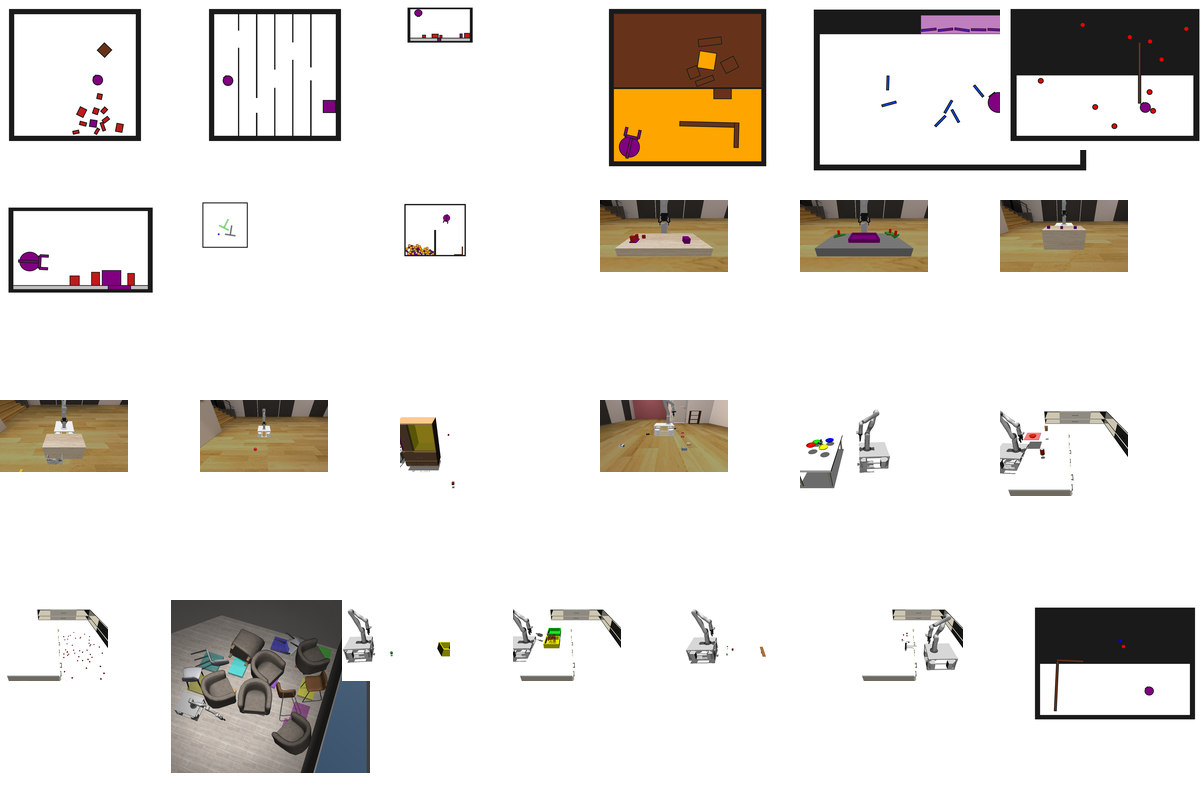
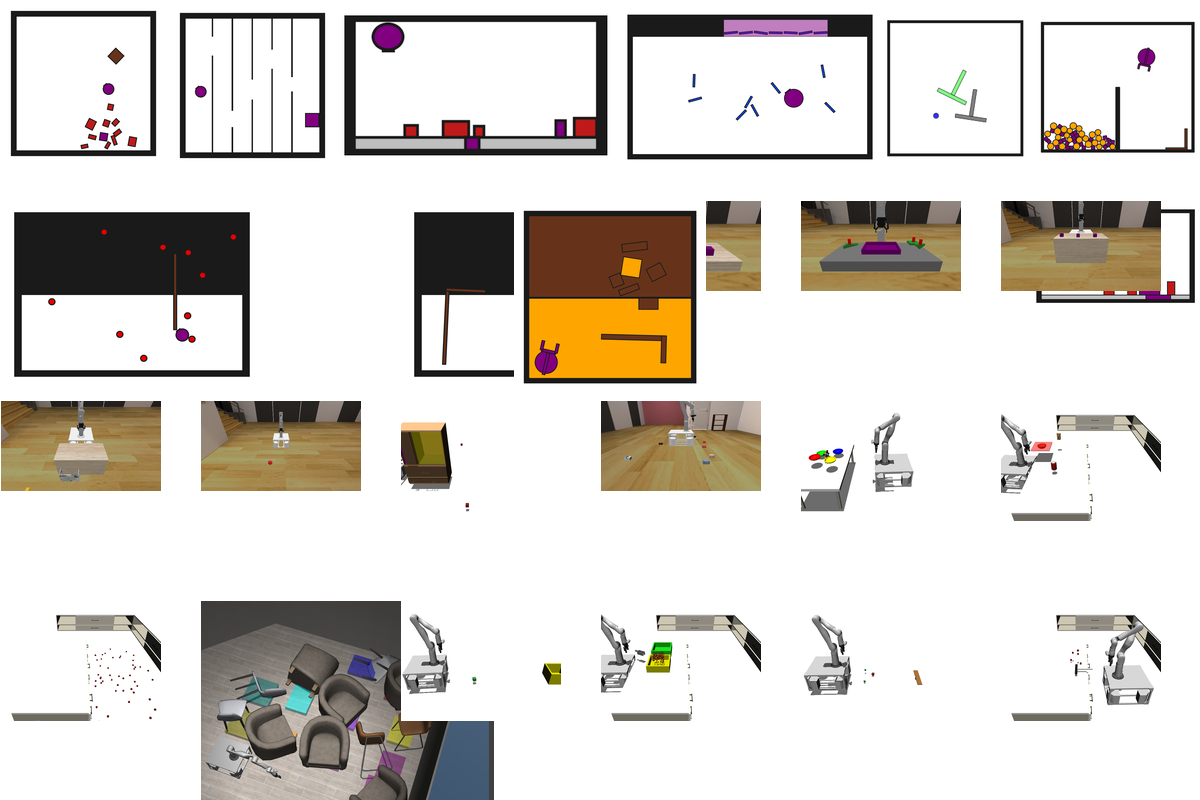
first row

diff --git a/prbench/scripts/generate_env_images.py b/prbench/scripts/generate_env_images.py
@@ -30,7 +30,7 @@ class EnvImageConfig:
 
     env_id: str
     seed: int = 0
-    # Crop values: (left, top, right, bottom) or None for no cropping
+    # Crop values: (left_px, top_px, right_px, bottom_px) pixels to crop from each edge, or None for no cropping
     crop: tuple[int, int, int, int] | None = None
     # Position in combined image: (x, y) from top-left
     position: tuple[int, int] = (0, 0)
@@ -45,187 +45,188 @@ COMBINED_IMAGE_SIZE: tuple[int, int] = (1200, 800)  # (width, height)
 COMBINED_IMAGE_BACKGROUND: tuple[int, int, int] = (255, 255, 255)  # RGB
 
 # List of environments to generate images for.
-# 4-row layout: 6-6-6-7 = 25 environments on 1200×800 canvas
-# Row height: 200 pixels
+# 4-row layout: 7-6-6-6 = 25 environments on 1200×800 canvas
+# Organized: 2D environments top, 3D environments bottom for visual coherence
+# Optimized for camera-ready figure with balanced spacing
 ENV_CONFIGS = [
-    # Row 1: 6 environments (y=0, 200px width each)
+    # Row 1: 7 2D environments (y=1, ~169px width, scale 0.22)
     EnvImageConfig(
         env_id="prbench/ClutteredRetrieval2D-o10-v0",
         seed=42,
         crop=None,
-        position=(0, 0),
-        scale=0.2,
+        position=(1, 1),
+        scale=0.22,
     ),
     EnvImageConfig(
         env_id="prbench/Motion2D-p5-v0",
         seed=42,
         crop=None,
-        position=(200, 0),
-        scale=0.2,
+        position=(170, 3),
+        scale=0.22,
     ),
     EnvImageConfig(
         env_id="prbench/Obstruction2D-o4-v0",
         seed=42,
-        crop=None,
-        position=(400, 0),
-        scale=0.2,
-    ),
-    EnvImageConfig(
-        env_id="prbench/DynPushPullHook2D-o5-v0",
-        seed=42,
-        crop=None,
-        position=(600, 0),
-        scale=0.2,
+        crop=(20,0,20,0),
+        position=(330, -15),
+        scale=0.8,
     ),
     EnvImageConfig(
         env_id="prbench/ClutteredStorage2D-b15-v0",
         seed=42,
         crop=None,
-        position=(800, 0),
-        scale=0.2,
-    ),
-    EnvImageConfig(
-        env_id="prbench/StickButton2D-b10-v0",
-        seed=42,
-        crop=None,
-        position=(1000, 0),
-        scale=0.2,
-    ),
-    # Row 2: 6 environments (y=200, 200px width each)
-    EnvImageConfig(
-        env_id="prbench/DynObstruction2D-o3-v0",
-        seed=42,
-        crop=None,
-        position=(0, 200),
-        scale=0.2,
+        position=(615, 6),
+        scale=0.18,
     ),
     EnvImageConfig(
         env_id="prbench/DynPushT-t1-v0",
         seed=42,
         crop=None,
-        position=(200, 200),
-        scale=0.2,
+        position=(880, 13),
+        scale=0.6,
     ),
     EnvImageConfig(
         env_id="prbench/DynScoopPour-o50-v0",
         seed=42,
         crop=None,
-        position=(400, 200),
-        scale=0.2,
+        position=(1030, 12),
+        scale=0.5,
     ),
+    # Row 2: 6 2D/hybrid environments (y=201, 198px width, scale 0.25)
     EnvImageConfig(
-        env_id="prbench/Obstruction3D-o4-v0",
+        env_id="prbench/StickButton2D-b10-v0",
         seed=42,
         crop=None,
-        position=(600, 200),
-        scale=0.2,
+        position=(1, 201),
+        scale=0.25,
     ),
     EnvImageConfig(
-        env_id="prbench/Packing3D-p3-v0",
+        env_id="prbench/DynObstruction2D-o3-v0",
         seed=42,
         crop=None,
-        position=(800, 200),
-        scale=0.2,
-    ),
-    EnvImageConfig(
-        env_id="prbench/Table3D-o3-v0",
-        seed=42,
-        crop=None,
-        position=(1000, 200),
-        scale=0.2,
-    ),
-    # Row 3: 6 environments (y=400, 200px width each)
-    EnvImageConfig(
-        env_id="prbench/Transport3D-o2-v0",
-        seed=42,
-        crop=None,
-        position=(0, 400),
-        scale=0.2,
-    ),
-    EnvImageConfig(
-        env_id="prbench/BaseMotion3D-v0",
-        seed=42,
-        crop=None,
-        position=(200, 400),
-        scale=0.2,
-    ),
-    EnvImageConfig(
-        env_id="prbench/TidyBot3D-cupboard-o8-v0",
-        seed=42,
-        crop=None,
-        position=(400, 400),
-        scale=0.2,
-    ),
-    EnvImageConfig(
-        env_id="prbench/Shelf3D-o10-v0",
-        seed=42,
-        crop=None,
-        position=(600, 400),
-        scale=0.2,
-    ),
-    EnvImageConfig(
-        env_id="prbench/TidyBot3D-sort-lab2-o20-sort_the_cluttered_blocks_into_bowls-v0",
-        seed=42,
-        crop=None,
-        position=(800, 400),
-        scale=0.2,
-    ),
-    EnvImageConfig(
-        env_id="prbench/TidyBot3D-rearrange-lab2_kitchen-o2-put_the_boxed_drink_and_the_can_next_to_the_bowl-v0",
-        seed=42,
-        crop=None,
-        position=(1000, 400),
-        scale=0.2,
-    ),
-    # Row 4: 7 environments (y=600, ~171px width each)
-    EnvImageConfig(
-        env_id="prbench/TidyBot3D-tool_use-lab2_kitchen-o50-sweep_the_blocks_to_the_left_side_of_the_kitchen_island-v0",
-        seed=42,
-        crop=None,
-        position=(0, 600),
-        scale=0.17,
-    ),
-    EnvImageConfig(
-        env_id="prbench/TidyBot3D-namo-o1-v0",
-        seed=42,
-        crop=None,
-        position=(171, 600),
-        scale=0.17,
-    ),
-    EnvImageConfig(
-        env_id="prbench/TidyBot3D-dynamic-lab2-o1-toss_the_blocks_into_the_bin-v0",
-        seed=42,
-        crop=None,
-        position=(342, 600),
-        scale=0.17,
-    ),
-    EnvImageConfig(
-        env_id="prbench/TidyBot3D-tool_use-lab2_kitchen-o5-scoop_the_blocks_from_the_yellow_bin_to_the_green_bin-v0",
-        seed=42,
-        crop=None,
-        position=(513, 600),
-        scale=0.17,
-    ),
-    EnvImageConfig(
-        env_id="prbench/TidyBot3D-dynamic-lab2-o3-balance_beam-v0",
-        seed=42,
-        crop=None,
-        position=(684, 600),
-        scale=0.17,
-    ),
-    EnvImageConfig(
-        env_id="prbench/TidyBot3D-tool_use-lab2_kitchen-o5-sweep_the_blocks_into_the_top_drawer_of_the_kitchen_island-v0",
-        seed=42,
-        crop=None,
-        position=(855, 600),
-        scale=0.17,
+        position=(1027, 201),
+        scale=0.22,
     ),
     EnvImageConfig(
         env_id="prbench/PushPullHook2D-v0",
         seed=42,
         crop=None,
-        position=(1026, 600),
-        scale=0.17,
+        position=(401, 201),
+        scale=0.25,
+    ),
+    EnvImageConfig(
+        env_id="prbench/Obstruction3D-o4-v0",
+        seed=42,
+        crop=None,
+        position=(601, 201),
+        scale=0.25,
+    ),
+    EnvImageConfig(
+        env_id="prbench/Packing3D-p3-v0",
+        seed=42,
+        crop=None,
+        position=(801, 201),
+        scale=0.25,
+    ),
+    EnvImageConfig(
+        env_id="prbench/Table3D-o3-v0",
+        seed=42,
+        crop=None,
+        position=(1001, 201),
+        scale=0.25,
+    ),
+    EnvImageConfig(
+        env_id="prbench/DynPushPullHook2D-o5-v0",
+        seed=42,
+        crop=None,
+        position=(514, 201),
+        scale=0.22,
+    ),
+    # Row 3: 6 3D environments (y=401, 198px width, scale 0.25)
+    EnvImageConfig(
+        env_id="prbench/Transport3D-o2-v0",
+        seed=42,
+        crop=None,
+        position=(1, 401),
+        scale=0.25,
+    ),
+    EnvImageConfig(
+        env_id="prbench/BaseMotion3D-v0",
+        seed=42,
+        crop=None,
+        position=(201, 401),
+        scale=0.25,
+    ),
+    EnvImageConfig(
+        env_id="prbench/TidyBot3D-cupboard-o8-v0",
+        seed=42,
+        crop=None,
+        position=(401, 401),
+        scale=0.25,
+    ),
+    EnvImageConfig(
+        env_id="prbench/Shelf3D-o10-v0",
+        seed=42,
+        crop=None,
+        position=(601, 401),
+        scale=0.25,
+    ),
+    EnvImageConfig(
+        env_id="prbench/TidyBot3D-sort-lab2-o20-sort_the_cluttered_blocks_into_bowls-v0",
+        seed=42,
+        crop=None,
+        position=(801, 401),
+        scale=0.25,
+    ),
+    EnvImageConfig(
+        env_id="prbench/TidyBot3D-rearrange-lab2_kitchen-o2-put_the_boxed_drink_and_the_can_next_to_the_bowl-v0",
+        seed=42,
+        crop=None,
+        position=(1001, 401),
+        scale=0.25,
+    ),
+    # Row 4: 6 3D TidyBot environments (y=601, 198px width, scale 0.25)
+    EnvImageConfig(
+        env_id="prbench/TidyBot3D-tool_use-lab2_kitchen-o50-sweep_the_blocks_to_the_left_side_of_the_kitchen_island-v0",
+        seed=42,
+        crop=None,
+        position=(1, 601),
+        scale=0.25,
+    ),
+    EnvImageConfig(
+        env_id="prbench/TidyBot3D-namo-o1-v0",
+        seed=42,
+        crop=None,
+        position=(201, 601),
+        scale=0.25,
+    ),
+    EnvImageConfig(
+        env_id="prbench/TidyBot3D-dynamic-lab2-o1-toss_the_blocks_into_the_bin-v0",
+        seed=42,
+        crop=None,
+        position=(401, 601),
+        scale=0.25,
+    ),
+    EnvImageConfig(
+        env_id="prbench/TidyBot3D-tool_use-lab2_kitchen-o5-scoop_the_blocks_from_the_yellow_bin_to_the_green_bin-v0",
+        seed=42,
+        crop=None,
+        position=(601, 601),
+        scale=0.25,
+    ),
+    EnvImageConfig(
+        env_id="prbench/TidyBot3D-dynamic-lab2-o3-balance_beam-v0",
+        seed=42,
+        crop=None,
+        position=(801, 601),
+        scale=0.25,
+    ),
+    EnvImageConfig(
+        env_id="prbench/TidyBot3D-tool_use-lab2_kitchen-o5-sweep_the_blocks_into_the_top_drawer_of_the_kitchen_island-v0",
+        seed=42,
+        crop=None,
+        position=(1001, 601),
+        scale=0.25,
     ),
 ]
 
@@ -256,12 +257,13 @@ def generate_image(
         img = Image.open(existing_path)
 
         if config.crop is not None:
-            # Only save if we need to apply cropping
-            img = img.crop(config.crop)
-            img.save(output_path)
-            return output_path, img
+            # Apply cropping in-memory without saving
+            # Convert from (left_px, top_px, right_px, bottom_px) edge crops to absolute coordinates
+            left, top, right, bottom = config.crop
+            crop_box = (left, top, img.width - right, img.height - bottom)
+            img = img.crop(crop_box)
 
-        # Use existing image as-is, no need to save
+        # Use existing image as-is (or cropped in-memory), no need to save
         return existing_path, img
 
     # Generate from environment
@@ -273,7 +275,10 @@ def generate_image(
     img = Image.fromarray(img_array)
 
     if config.crop is not None:
-        img = img.crop(config.crop)
+        # Convert from (left_px, top_px, right_px, bottom_px) edge crops to absolute coordinates
+        left, top, right, bottom = config.crop
+        crop_box = (left, top, img.width - right, img.height - bottom)
+        img = img.crop(crop_box)
 
     img.save(output_path)
 
